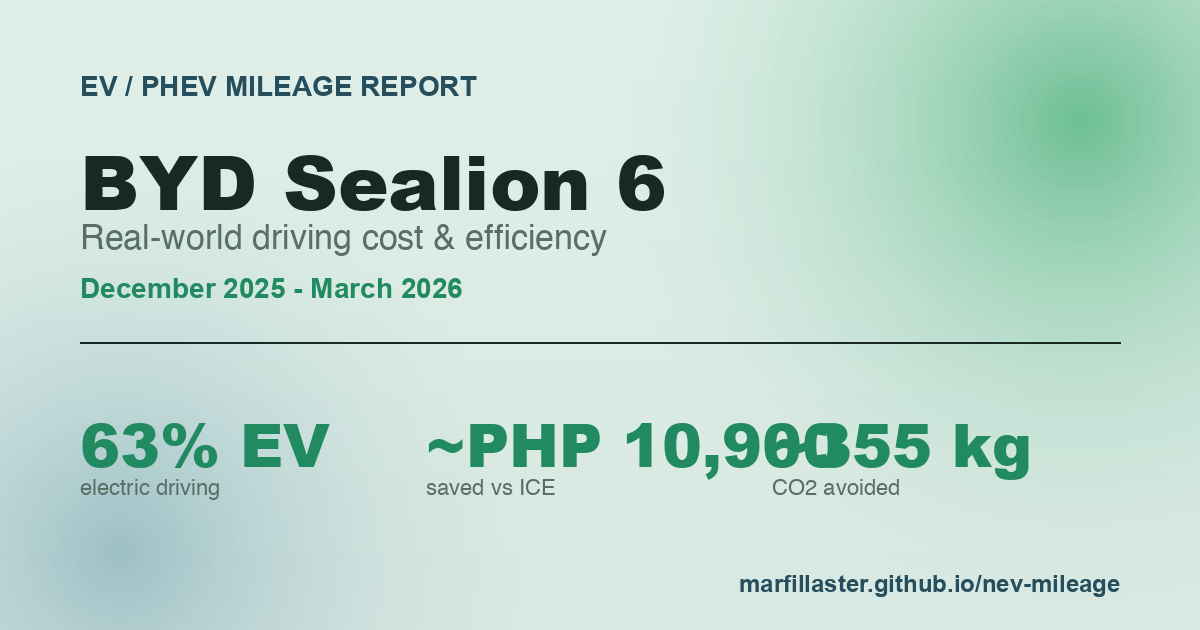
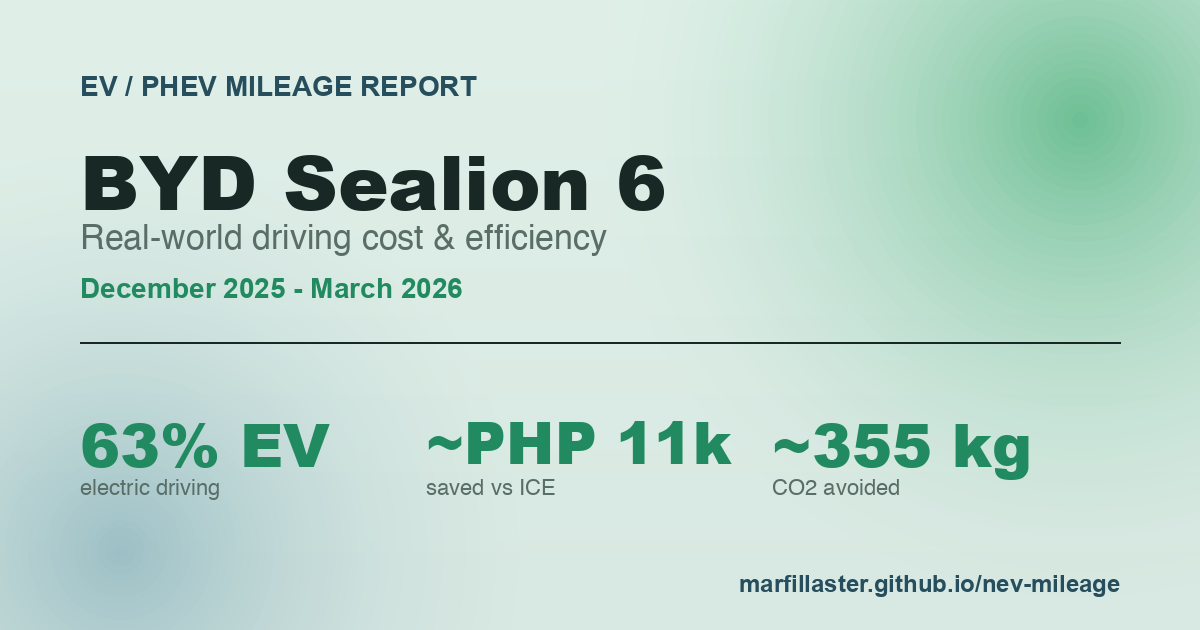
Fix overlapping stats in /nev-mileage OG image
Auto-shrink each stat value to fit its column and abbreviate the
savings figure (₱10,900 -> ₱11k) so the three bottom stats no longer
collide.

Changed region(s): [[0.3392, 0.6635, 0.7092, 0.754]]

diff --git a/.codex/skills/update-nev-mileage-site/scripts/update_nev_site.py b/.codex/skills/update-nev-mileage-site/scripts/update_nev_site.py
@@ -150,6 +150,18 @@ def og_text(text: str) -> str:
     return re.sub(r"\s+", " ", text).strip()
 
 
+def compact_money(text: str) -> str:
+    """Abbreviate a currency figure for the OG card, e.g. `~₱10,900` -> `~₱11k`,
+    so the bottom stats stay short and balanced."""
+    m = re.search(r"([₱$P])\s?([\d,]+)", text)
+    if not m:
+        return text
+    num = int(m.group(2).replace(",", ""))
+    if num < 1000:
+        return text
+    return f"{text[:m.start(2)]}{round(num / 1000)}k"
+
+
 _DATA_SOURCES_BLOCK = """## Data Sources
 
 - `data/phev_log.csv` - refuel log (odometer, plug meter, fuel, tariff) backing every figure above
@@ -193,7 +205,7 @@ def build_og_image(
 
     stats = [
         (og_text(ev_pct) or "-", "electric driving"),
-        (og_text(savings) or "-", "saved vs ICE"),
+        (og_text(compact_money(savings)) or "-", "saved vs ICE"),
         (og_text(co2) or "-", "CO2 avoided"),
     ]
     og_path = repo_root / "public" / "nev-mileage" / "og-image.png"

diff --git a/.codex/skills/update-nev-mileage-site/scripts/generate_og_image.py b/.codex/skills/update-nev-mileage-site/scripts/generate_og_image.py
@@ -101,9 +101,18 @@ def render(output: Path, period: str, vehicle: str, stats: list[tuple[str, str]]
 
     stat_y = HEIGHT - 230
     col_width = (WIDTH - 2 * margin_x) // max(1, len(stats))
+    col_gap = 32
+    max_value_w = col_width - col_gap
     for i, (value, label) in enumerate(stats):
         col_x = margin_x + i * col_width
-        draw.text((col_x, stat_y), value, font=stat_value_font, fill=LEAF)
+        # Shrink the value font until it fits inside its column so adjacent
+        # stats never overlap (e.g. a long "~PHP 10,900").
+        size = 60
+        value_font = stat_value_font
+        while size > 32 and text_width(draw, value, value_font) > max_value_w:
+            size -= 2
+            value_font = font(FONT_BLACK, size)
+        draw.text((col_x, stat_y), value, font=value_font, fill=LEAF)
         draw.text((col_x, stat_y + 78), label, font=stat_label_font, fill=MUTED)
 
     footer = "marfillaster.github.io/nev-mileage"